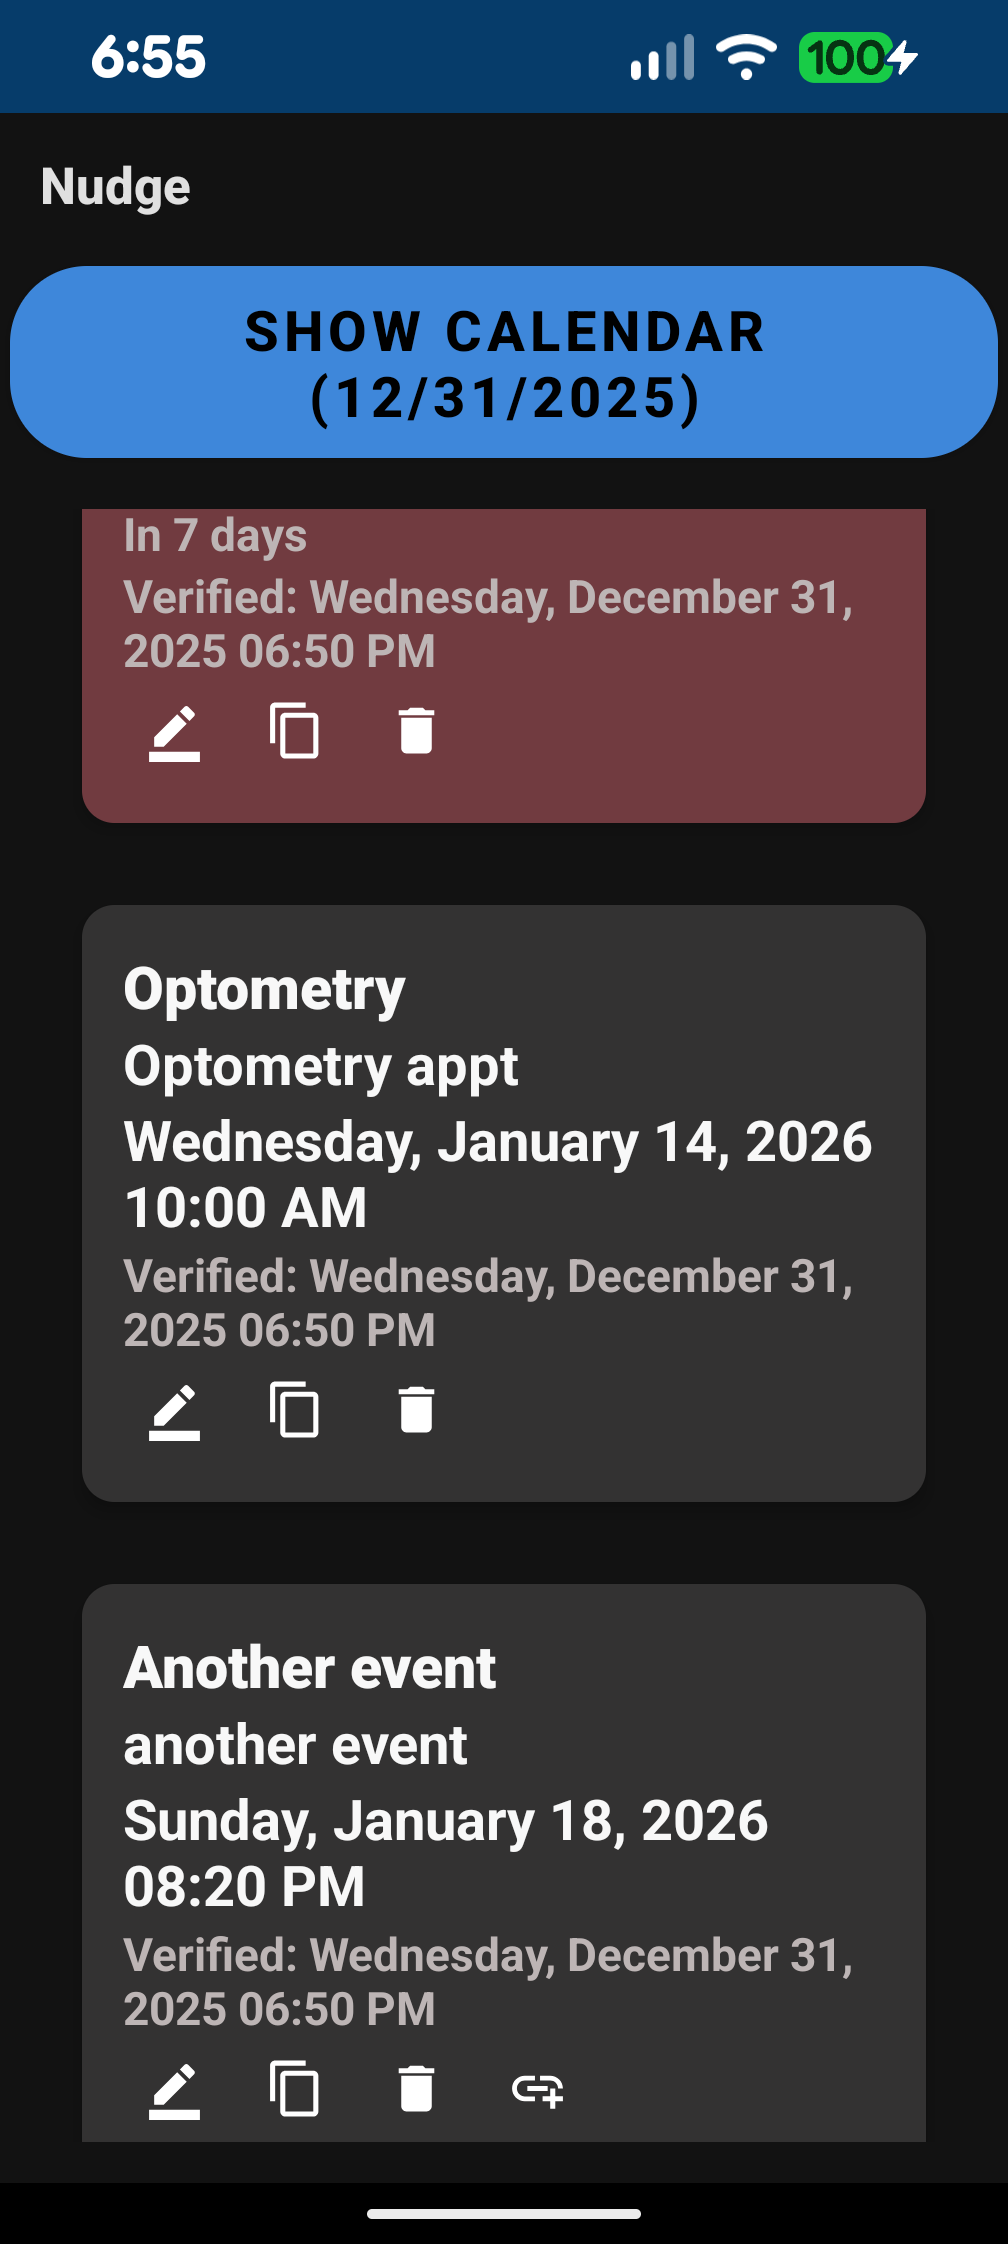
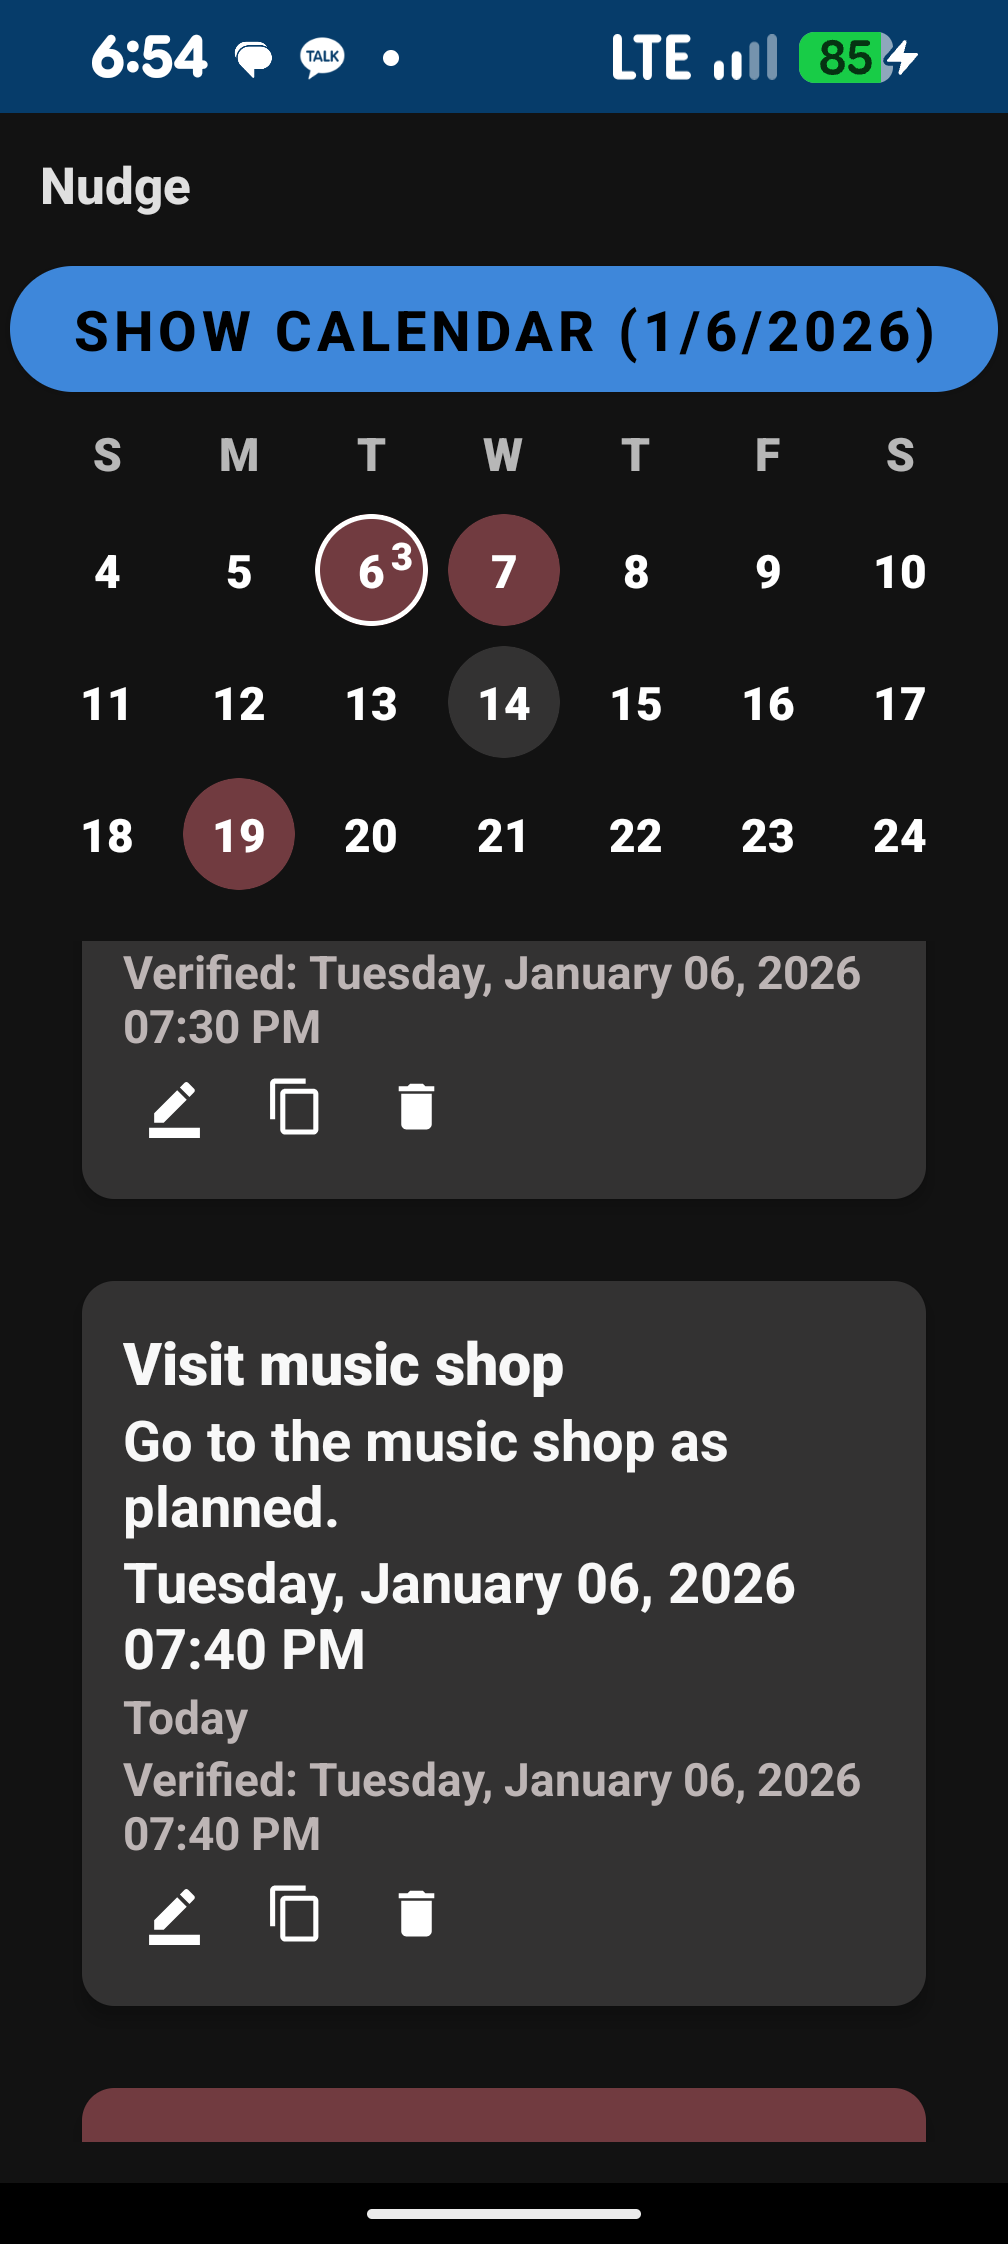
client: Add mini calendar with events and handle network downtime

diff --git a/client/android/app/src/main/java/com/hyunwookshin/nudge/ReminderListFragment.kt b/client/android/app/src/main/java/com/hyunwookshin/nudge/ReminderListFragment.kt
@@ -17,10 +17,15 @@ import retrofit2.Response
 import com.google.android.material.snackbar.Snackbar
 import retrofit2.Call
 import java.util.Calendar
+import java.time.LocalDate
+import java.time.format.DateTimeFormatter
+
+private val reminderDateTimeFmt = DateTimeFormatter.ofPattern("yyyy-MM-dd HH:mm") // your Android field
 
 class ReminderListFragment : Fragment(), Refreshable {
 
     private lateinit var reminderAdapter: ReminderAdapter
+    private lateinit var miniCalendarAdapter: MiniCalendarAdapter
     private lateinit var dateButton: Button
     private lateinit var progressBar: ProgressBar
     private var reminderCallback: ReminderCallback? = null
@@ -68,6 +73,8 @@ class ReminderListFragment : Fragment(), Refreshable {
     override fun onViewCreated(view: View, savedInstanceState: Bundle?) {
         super.onViewCreated(view, savedInstanceState)
 
+        setupMiniCalendar(view)
+
         // Ensure that the Edit button is wired to the callback in MainActivity.
         reminderAdapter = ReminderAdapter().apply {
             reminderCallback?.let {
@@ -81,25 +88,80 @@ class ReminderListFragment : Fragment(), Refreshable {
         fetchReminders()
     }
 
+    override fun onDetach() {
+        super.onDetach()
+        reminderCallback = null
+    }
+
     private fun fetchReminders() {
         val apiService = ApiClient.getClient().create(ApiService::class.java)
         apiService.getReminders().enqueue(object : Callback<ReminderResponse> {
             override fun onResponse(call: Call<ReminderResponse>, response: Response<ReminderResponse>) {
+                if (!isAdded || view == null) return
+                progressBar.visibility = View.GONE
                 if (response.isSuccessful) {
-                    response.body()?.reminders?.let { reminders ->
-                        Log.d("ReminderListFragment", "Reminders fetched: ${reminders.size}")
+                    val reminders = response.body()?.reminders ?: emptyList()
+                    Log.d("ReminderListFragment", "Reminders fetched: ${reminders.size}")
 
-                        reminderAdapter.setReminders(reminders)
-                        progressBar.visibility = View.GONE
-                    }
+                    reminderAdapter.setReminders(reminders)
+                    miniCalendarAdapter.submit(buildMiniCalendarDays(reminders))
+
                 } else {
                     Snackbar.make(requireView(), "Failed to load reminders", Snackbar.LENGTH_SHORT).show()
                 }
             }
 
             override fun onFailure(call: Call<ReminderResponse>, t: Throwable) {
+                if (!isAdded || view == null) return
                 Snackbar.make(requireView(), "Network error: ${t.message}", Snackbar.LENGTH_SHORT).show()
+                progressBar.visibility = View.GONE
             }
         })
     }
+
+
+    private fun setupMiniCalendar(view: View) {
+        val rv = view.findViewById<RecyclerView>(R.id.miniCalendarRv)
+        rv.layoutManager = androidx.recyclerview.widget.GridLayoutManager(requireContext(), 7)
+        miniCalendarAdapter = MiniCalendarAdapter { clickedDate ->
+            // Optional: scroll list to date, or filter, or open calendar view
+        }
+        rv.adapter = miniCalendarAdapter
+    }
+
+    private fun buildMiniCalendarDays(reminders: List<Reminder>): List<DayState> {
+        val today = LocalDate.now()
+        val start = today.minusDays(today.dayOfWeek.value % 7L)
+        val end = start.plusDays(20) // 3 weeks (21 days)
+
+        // date -> (count, hasHigh, hasLow)
+        val agg = mutableMapOf<LocalDate, Triple<Int, Boolean, Boolean>>()
+
+        for (r in reminders) {
+            // Your Android Reminder.Time looks like "yyyy-MM-dd HH:mm" (after your fixes)
+            val date = runCatching {
+                LocalDate.parse(r.Time.take(10)) // "yyyy-MM-dd"
+            }.getOrNull() ?: continue
+
+            if (date.isBefore(start) || date.isAfter(end)) continue
+
+            val prev = agg[date] ?: Triple(0, false, false)
+            val count = prev.first + 1
+            val hasHigh = prev.second || (r.Priority <= 1)
+            val hasLow = prev.third || (r.Priority > 1)
+            agg[date] = Triple(count, hasHigh, hasLow)
+        }
+
+        return (0..20).map { offset ->
+            val d = start.plusDays(offset.toLong())
+            val triple = agg[d] ?: Triple(0, false, false)
+            DayState(
+                date = d,
+                count = triple.first,
+                hasHigh = triple.second,
+                hasLow = triple.third
+            )
+        }
+    }
+
 }

diff --git a/client/android/app/src/main/java/com/hyunwookshin/nudge/MiniCalendarAdapter.kt b/client/android/app/src/main/java/com/hyunwookshin/nudge/MiniCalendarAdapter.kt
@@ -1,0 +1,91 @@
+package com.hyunwookshin.nudge
+
+import android.content.res.Configuration
+import android.view.LayoutInflater
+import android.view.View
+import android.view.ViewGroup
+import android.widget.TextView
+import androidx.core.content.ContextCompat
+import androidx.recyclerview.widget.RecyclerView
+import com.google.android.material.card.MaterialCardView
+import java.time.LocalDate
+
+class MiniCalendarAdapter(
+    private val onDayClick: ((LocalDate) -> Unit)? = null
+) : RecyclerView.Adapter<MiniCalendarAdapter.VH>() {
+
+    private var days: List<DayState> = emptyList()
+
+    fun submit(days: List<DayState>) {
+        this.days = days
+        notifyDataSetChanged()
+    }
+
+    override fun onCreateViewHolder(parent: ViewGroup, viewType: Int): VH {
+        val v = LayoutInflater.from(parent.context).inflate(R.layout.item_mini_day, parent, false)
+        return VH(v)
+    }
+
+    override fun getItemCount(): Int = days.size
+
+    override fun onBindViewHolder(holder: VH, position: Int) {
+        holder.bind(days[position], onDayClick)
+    }
+
+    class VH(itemView: View) : RecyclerView.ViewHolder(itemView) {
+        private val card: MaterialCardView = itemView.findViewById(R.id.dayCard)
+        private val dayNumber: TextView = itemView.findViewById(R.id.dayNumber)
+        private val dayCount: TextView = itemView.findViewById(R.id.dayCount)
+
+        fun bind(state: DayState, onDayClick: ((LocalDate) -> Unit)?) {
+            val ctx = itemView.context
+            val today = LocalDate.now()
+
+            dayNumber.text = state.date.dayOfMonth.toString()
+
+            // Count badge (only show if > 1)
+            if (state.count > 1) {
+                dayCount.visibility = View.VISIBLE
+                dayCount.text = state.count.toString()
+            } else {
+                dayCount.visibility = View.GONE
+            }
+
+            // Fill color: red > gray > transparent (unfilled)
+            val fillColor = when {
+                state.hasHigh -> ContextCompat.getColor(ctx, R.color.high_priority) // your red
+                state.hasLow -> ContextCompat.getColor(ctx, R.color.low_priority)  // your gray
+                else -> android.graphics.Color.TRANSPARENT
+            }
+            card.setCardBackgroundColor(fillColor)
+
+            // Stroke default
+            val outline = resolveThemeColor(ctx, com.google.android.material.R.attr.colorOutline)
+            card.strokeWidth = dp(ctx, 1)
+            card.strokeColor = outline
+
+            // Today highlight: black in light / white in dark (as you requested)
+            if (state.date == today) {
+                val night =
+                    (ctx.resources.configuration.uiMode and Configuration.UI_MODE_NIGHT_MASK) ==
+                            Configuration.UI_MODE_NIGHT_YES
+
+                val todayStroke = if (night) android.graphics.Color.WHITE else android.graphics.Color.BLACK
+                card.strokeWidth = dp(ctx, 2)
+                card.strokeColor = todayStroke
+            }
+
+            itemView.setOnClickListener { onDayClick?.invoke(state.date) }
+        }
+
+        private fun dp(ctx: android.content.Context, v: Int): Int {
+            return (v * ctx.resources.displayMetrics.density).toInt()
+        }
+
+        private fun resolveThemeColor(ctx: android.content.Context, attr: Int): Int {
+            val tv = android.util.TypedValue()
+            ctx.theme.resolveAttribute(attr, tv, true)
+            return tv.data
+        }
+    }
+}

diff --git a/client/android/app/src/main/java/com/hyunwookshin/nudge/ReminderFragment.kt b/client/android/app/src/main/java/com/hyunwookshin/nudge/ReminderFragment.kt
@@ -262,16 +262,22 @@ class ReminderFragment : Fragment() {
 
         call.enqueue(object : Callback<ReminderResponse> {
             override fun onResponse(call: Call<ReminderResponse>, response: Response<ReminderResponse>) {
+                if (!isAdded) return
                 if (response.isSuccessful) {
                     reminders = response.body()?.reminders ?: emptyList()
                     setupAutoComplete()
                 } else {
-                    Snackbar.make(requireView(), "Failed to fetch reminders", Snackbar.LENGTH_SHORT).show()
+                    view?.let { v ->
+                        Snackbar.make(v, "Failed to fetch reminders", Snackbar.LENGTH_SHORT).show()
+                    }
                 }
             }
 
             override fun onFailure(call: Call<ReminderResponse>, t: Throwable) {
-                Snackbar.make(requireView(), "Network error: ${t.message}", Snackbar.LENGTH_SHORT).show()
+                if (!isAdded) return
+                view?.let { v ->
+                    Snackbar.make(v, "Network error: ${t.message}", Snackbar.LENGTH_SHORT).show()
+                }
             }
         })
     }

diff --git a/client/android/app/src/main/java/com/hyunwookshin/nudge/MiniCalendar.kt b/client/android/app/src/main/java/com/hyunwookshin/nudge/MiniCalendar.kt
@@ -1,0 +1,11 @@
+package com.hyunwookshin.nudge
+
+import java.time.LocalDate
+
+data class DayState(
+    val date: LocalDate,
+    val count: Int,
+    val hasHigh: Boolean,
+    val hasLow: Boolean
+)
+
